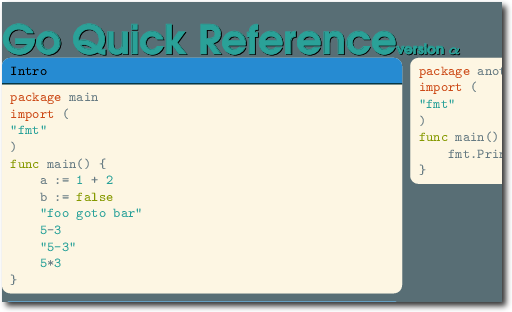
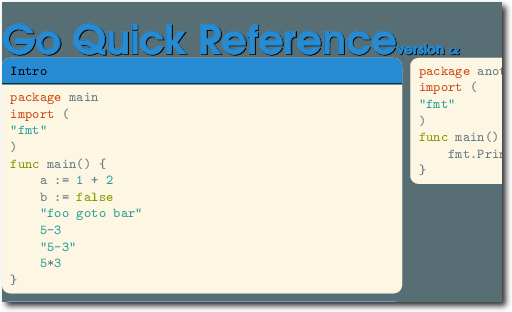
turns out cyan is kinda ugly

Changed region(s): [[0.0, 0.0577, 0.9062, 0.1731]]

diff --git a/golang-ref-sheet.tex b/golang-ref-sheet.tex
@@ -56,7 +56,7 @@
 \begin{minipage}{\textwidth}
     \fontfamily{pag}%
     \fontseries{b}%
-    \textcolor{scyan}{\CheapShadow{\Large{Go Quick Reference}\tiny{version $\alpha$}}}\hfill
+    \textcolor{sblue}{\CheapShadow{\Large{Go Quick Reference}\tiny{version $\alpha$}}}\hfill
     \includegraphics[width=0.5cm]{./figures/gopher.eps}
 \end{minipage}
 \tt\tiny%
